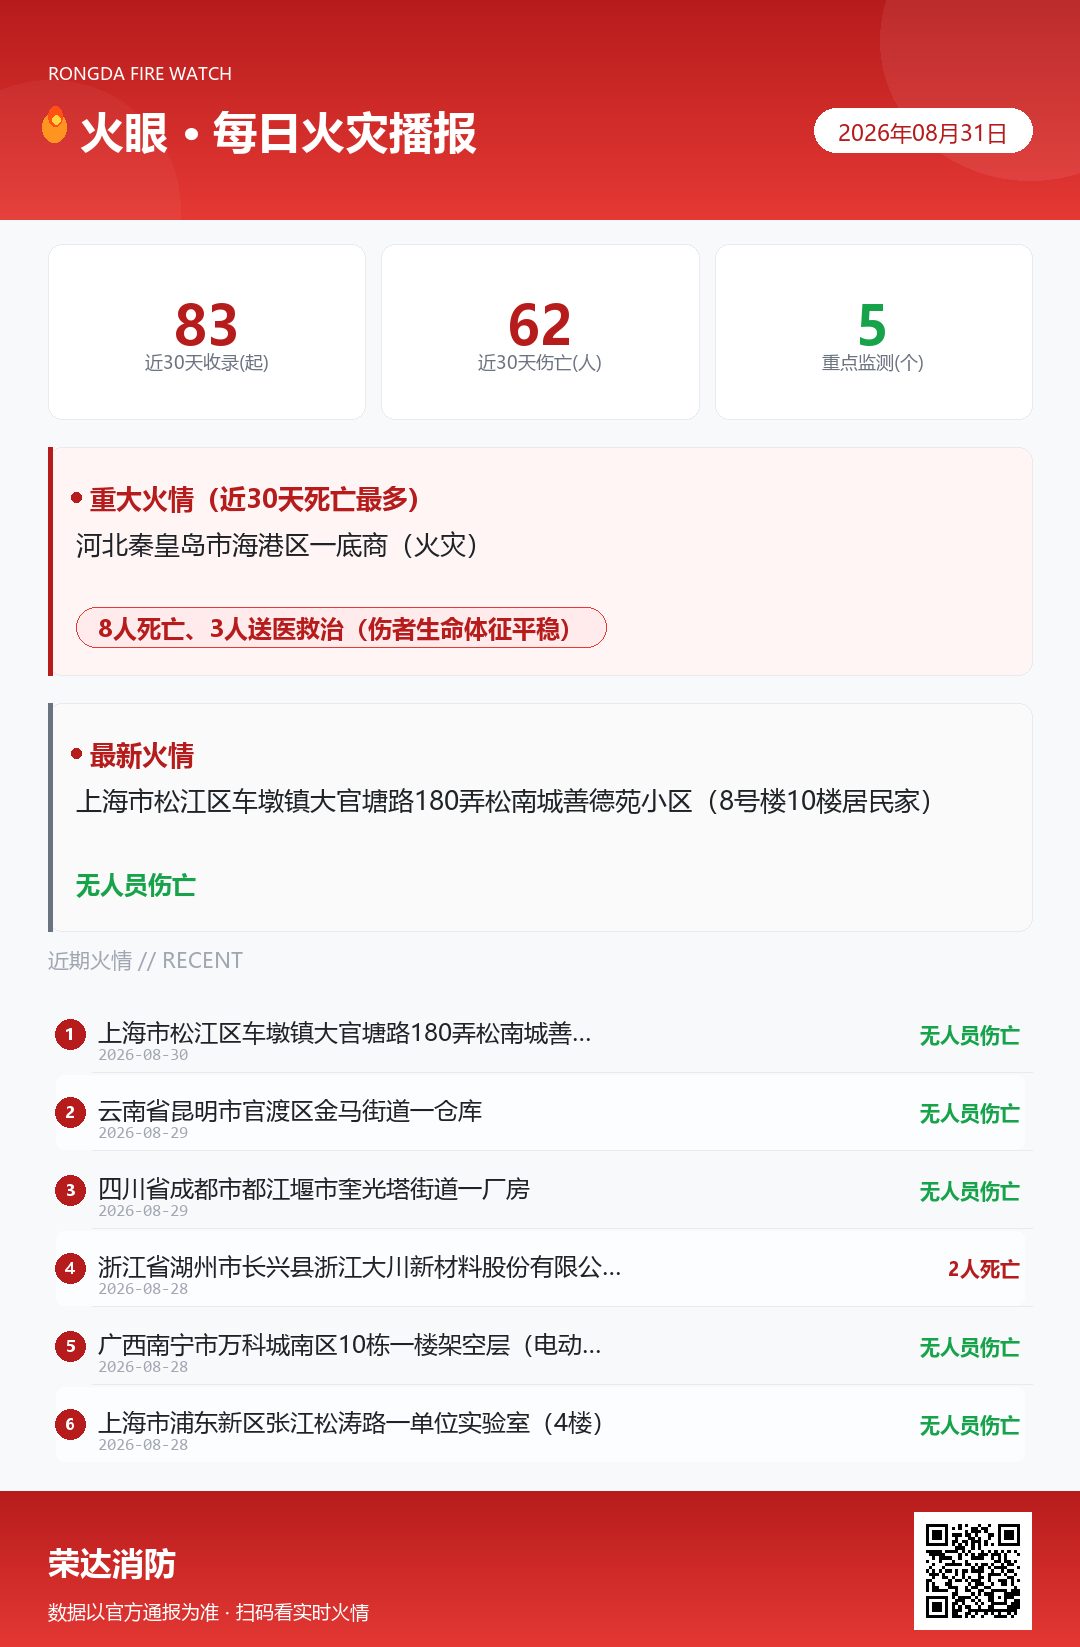
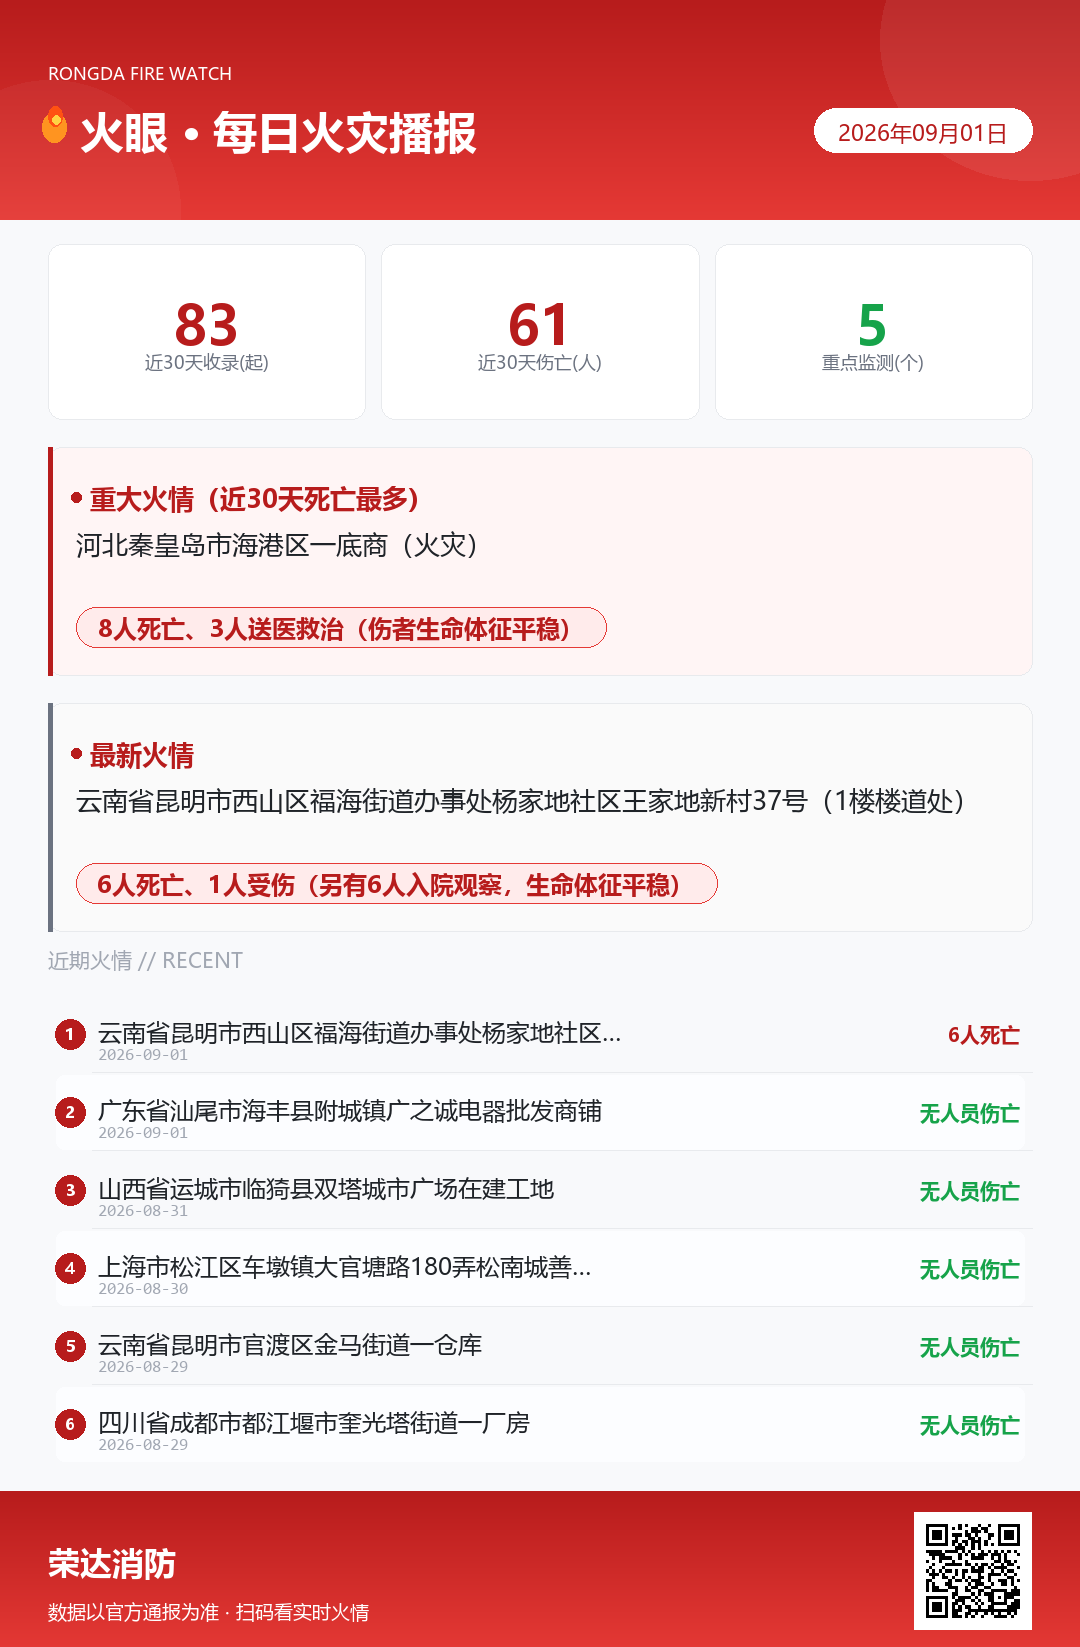
Add files via upload

diff --git a/index.html b/index.html
@@ -417,8 +417,8 @@
 
 <!-- ============ DATA（每日自动更新：由自动化脚本重写此对象） ============ -->
 <script id="brief-data" type="application/json">{
-  "date": "2026年08月31日",
-  "compileTime": "2026-08-31 07:00",
+  "date": "2026年09月01日",
+  "compileTime": "2026-09-01 09:19",
   "source": "AI 联网检索 · 各地消防救援机构官方通报及权威媒体转载",
   "range": "滚动更新 · 近 30 天",
   "stats": {
@@ -445,13 +445,13 @@
     }
   ],
   "case": {
-    "date": "2026-08-30",
-    "location": "上海市松江区车墩镇大官塘路180弄松南城善德苑小区（8号楼10楼居民家）",
+    "date": "2026-09-01",
+    "location": "云南省昆明市西山区福海街道办事处杨家地社区王家地新村37号（1楼楼道处）",
     "category": "住宅/民房",
-    "summary": "8月30日13时50分，松江区车墩镇大官塘路180弄松南城善德苑小区一居民家中突发火灾，火焰从窗口翻滚蹿出、现场黑烟滚滚。松江区消防救援支队调派车墩、松江、仓桥、岳阳、九亭等站十余辆消防车到场处置，火灾很快被扑灭，造成事发居民家中物品烧毁、居民楼部分区域外立面被熏黑。无人员伤亡，起火原因正在进一步调查。",
-    "casualty": "无人员伤亡",
-    "cause": "起火原因正在进一步调查中",
-    "src": "松江区消防救援支队 / 新民晚报（2026年8月30日）"
+    "summary": "9月1日04时47分许，昆明市西山区福海街道办事处杨家地社区王家地新村37号1楼楼道处发生火灾，公安、消防等部门立即赶赴现场处置并启动预案，明火于05时01分扑灭。清理火场过程中发现6名遇难者（5女1男）、1名伤者已入院救治；另有6人入院观察，目前7人生命体征平稳。起火原因、财产损失相关部门正在调查中。",
+    "casualty": "6人死亡、1人受伤（另有6人入院观察，生命体征平稳）",
+    "cause": "起火原因正在调查中",
+    "src": "昆明市西山区发布（微博官方通报，2026年9月1日）"
   },
   "tips": [
     "近两周住宅火灾11起居首：珠海3岁童玩打火机引燃床垫、湖州储藏室电动车充电电气故障、北京大兴楼道杂物困老人。打火机火柴锁高处别让孩子够到；楼道储藏室清空不堆货不飞线充；线路发烫焦味立即断电。",
@@ -471,13 +471,31 @@
   ],
   "history": [
     {
-      "date": "2026-08-29",
-      "location": "云南省昆明市官渡区金马街道一仓库",
-      "category": "仓储/物流",
-      "summary": "8月29日22时12分，昆明市官渡区金马街道一仓库发生火情，官渡区消防救援局接报后第一时间赶赴现场处置，于23时20分扑灭明火。该起火情无人员伤亡，起火原因正在调查。",
-      "casualty": "无人员伤亡",
+      "date": "2026-09-01",
+      "location": "云南省昆明市西山区福海街道办事处杨家地社区王家地新村37号（1楼楼道处）",
+      "category": "住宅/民房",
+      "summary": "9月1日04时47分许，昆明市西山区福海街道办事处杨家地社区王家地新村37号1楼楼道处发生火灾，公安、消防等部门立即赶赴现场处置并启动预案，明火于05时01分扑灭。清理火场过程中发现6名遇难者（5女1男）、1名伤者已入院救治；另有6人入院观察，目前7人生命体征平稳。起火原因、财产损失相关部门正在调查中。",
+      "casualty": "6人死亡、1人受伤（另有6人入院观察，生命体征平稳）",
       "cause": "起火原因正在调查中",
-      "src": "官渡区消防救援局火情通报（2026年8月30日发布）/ 央广网"
+      "src": "昆明市西山区发布（微博官方通报，2026年9月1日）"
+    },
+    {
+      "date": "2026-09-01",
+      "location": "广东省汕尾市海丰县附城镇广之诚电器批发商铺",
+      "category": "商场/市场",
+      "summary": "9月1日3时38分，汕尾市海丰县附城镇广之诚电器批发商铺着火，起火建筑为单层钢结构仓库、面积约900平方米，主要燃烧物质为电器和电线等制品。海丰县消防救援大队调派附城、海城消防救援站及政府专职队共51名指战员赶赴处置，支队特勤、红草消防救援站增援，10时40分火势被扑灭，现场未造成人员伤亡。火灾原因有待进一步调查。",
+      "casualty": "无人员伤亡",
+      "cause": "火灾原因有待进一步调查",
+      "src": "海丰县消防救援大队通报 / 南方+（2026年9月1日）"
+    },
+    {
+      "date": "2026-08-31",
+      "location": "山西省运城市临猗县双塔城市广场在建工地",
+      "category": "其他",
+      "summary": "2026年8月31日15时38分，临猗县双塔城市广场在建工地发生火情，临猗县消防救援大队接到报警后第一时间赶赴现场处置，于16时10分扑灭明火。该起火情无人员伤亡，起火原因正在调查。",
+      "casualty": "无人员伤亡",
+      "cause": "起火原因正在调查",
+      "src": "临猗县应急管理局通报（2026年8月31日）"
     },
     {
       "date": "2026-08-30",
@@ -487,6 +505,15 @@
       "casualty": "无人员伤亡",
       "cause": "起火原因正在进一步调查中",
       "src": "松江区消防救援支队 / 新民晚报（2026年8月30日）"
+    },
+    {
+      "date": "2026-08-29",
+      "location": "云南省昆明市官渡区金马街道一仓库",
+      "category": "仓储/物流",
+      "summary": "8月29日22时12分，昆明市官渡区金马街道一仓库发生火情，官渡区消防救援局接报后第一时间赶赴现场处置，于23时20分扑灭明火。该起火情无人员伤亡，起火原因正在调查。",
+      "casualty": "无人员伤亡",
+      "cause": "起火原因正在调查中",
+      "src": "官渡区消防救援局火情通报（2026年8月30日发布）/ 央广网"
     },
     {
       "date": "2026-08-29",
